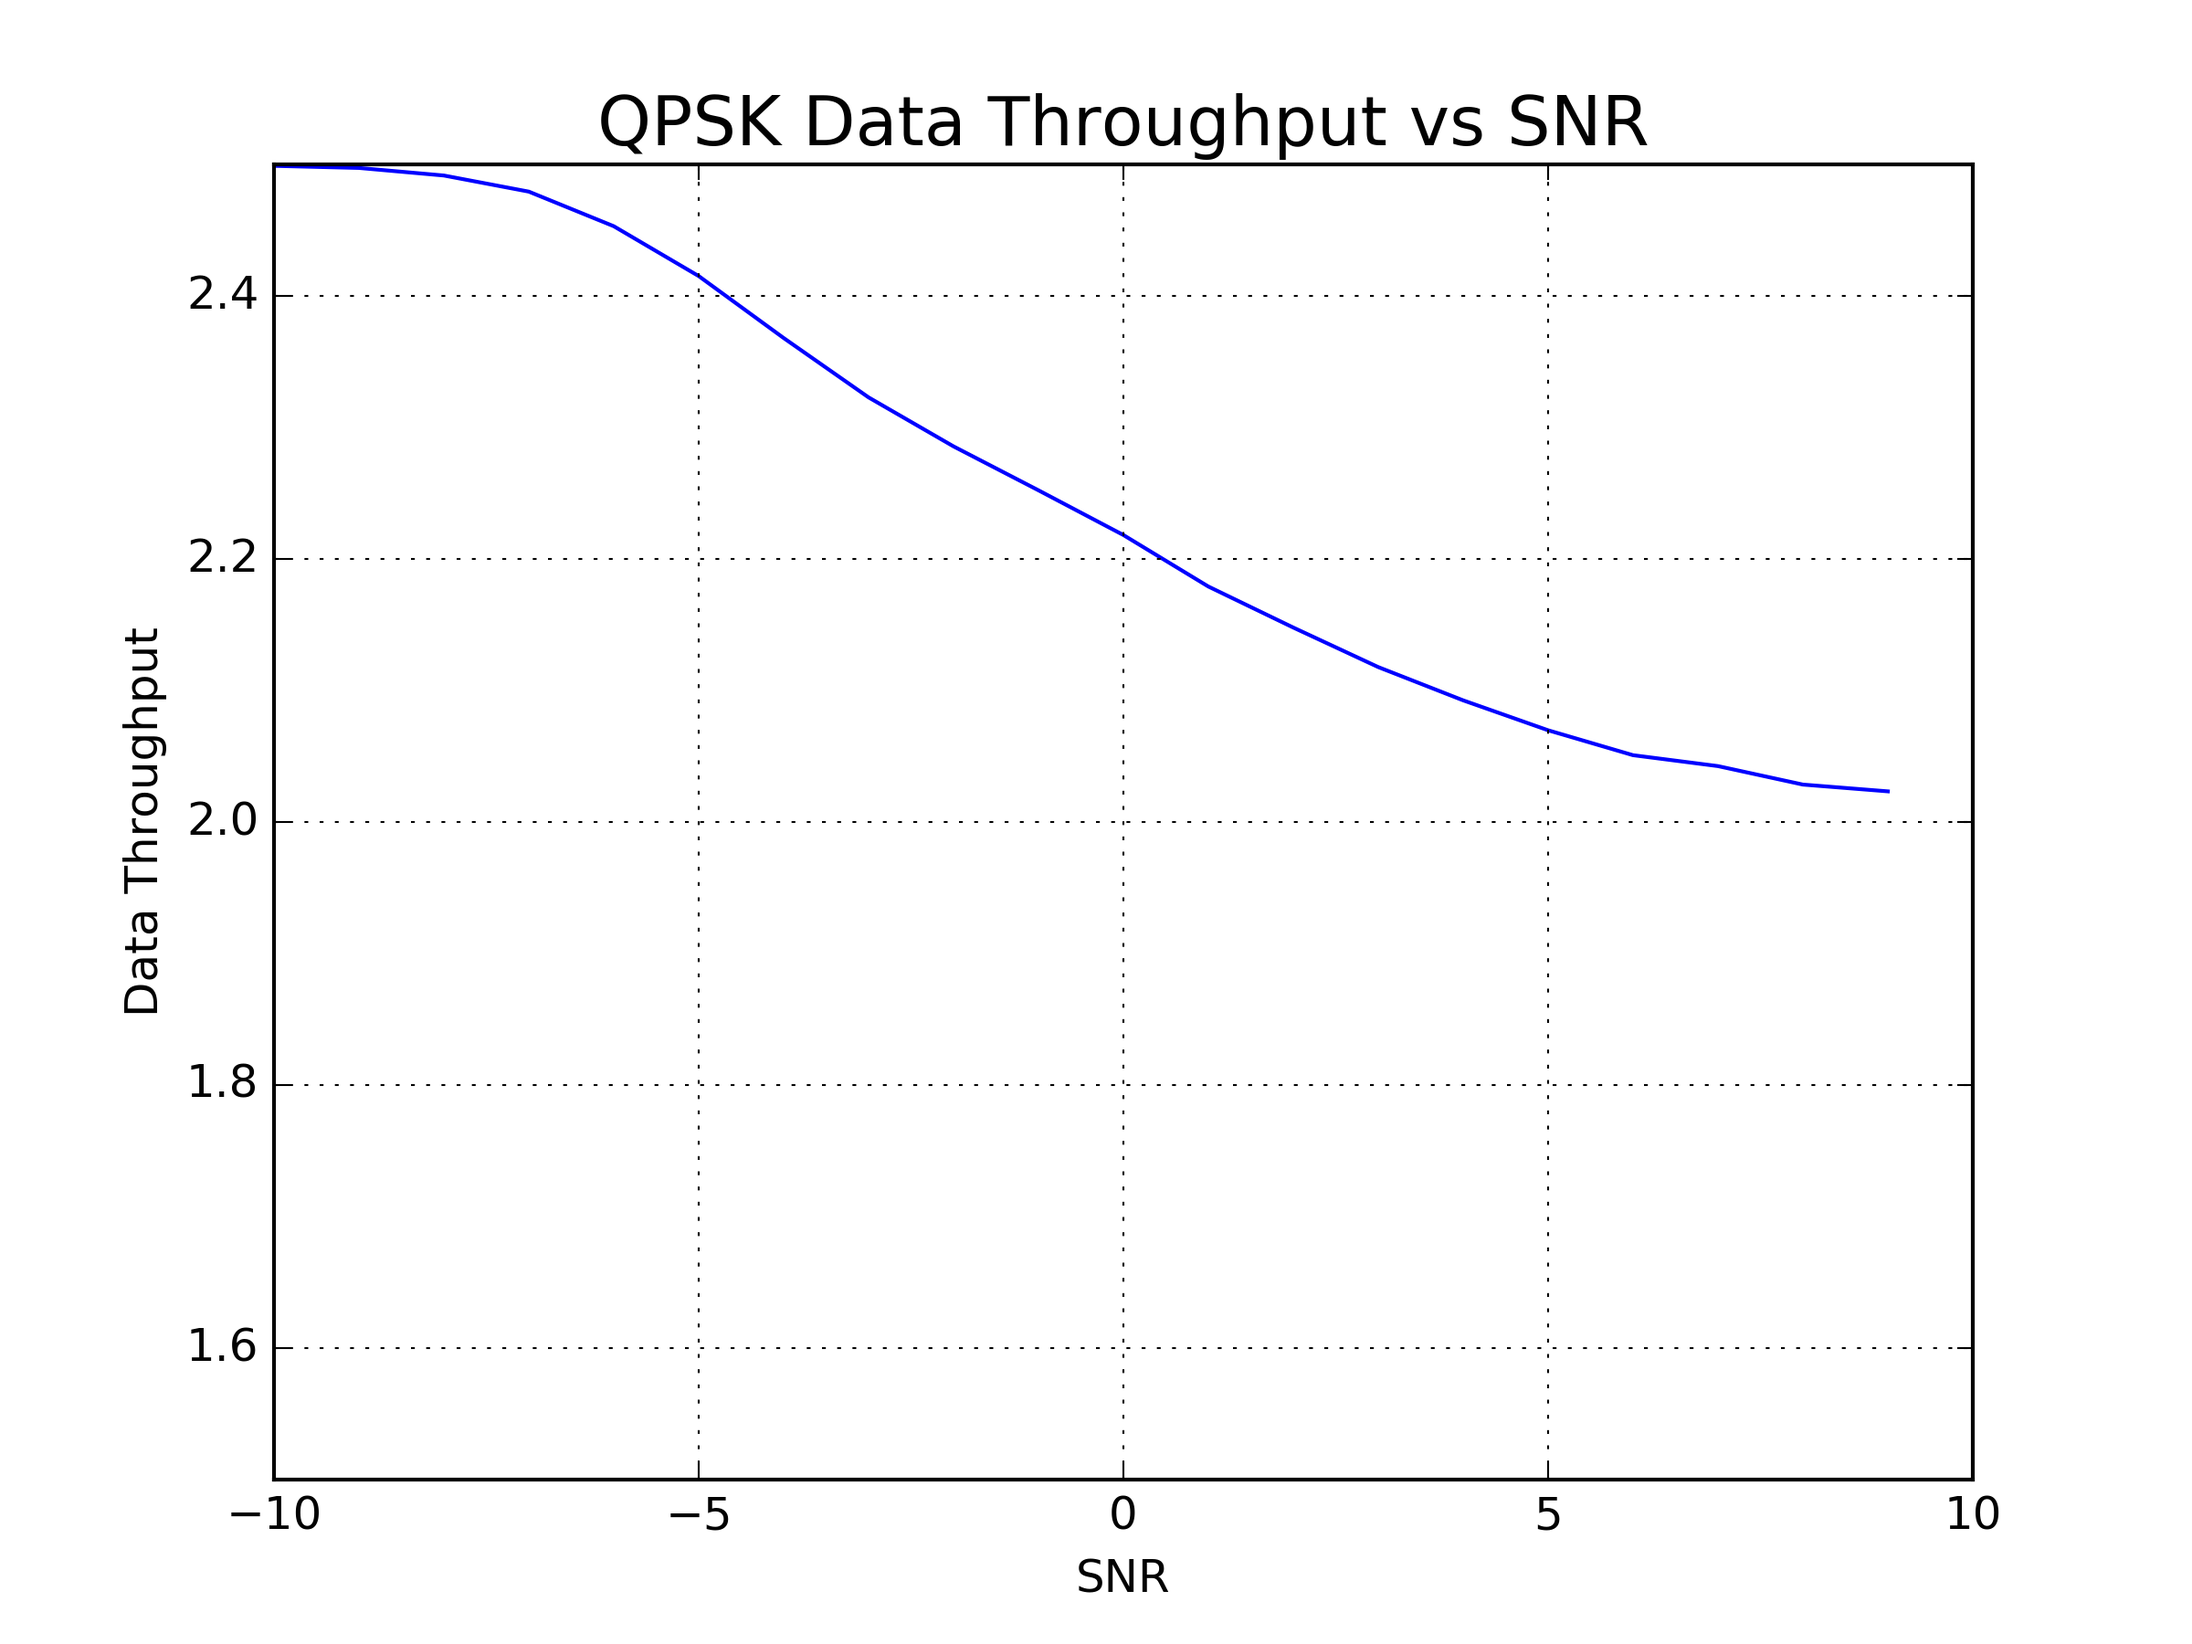
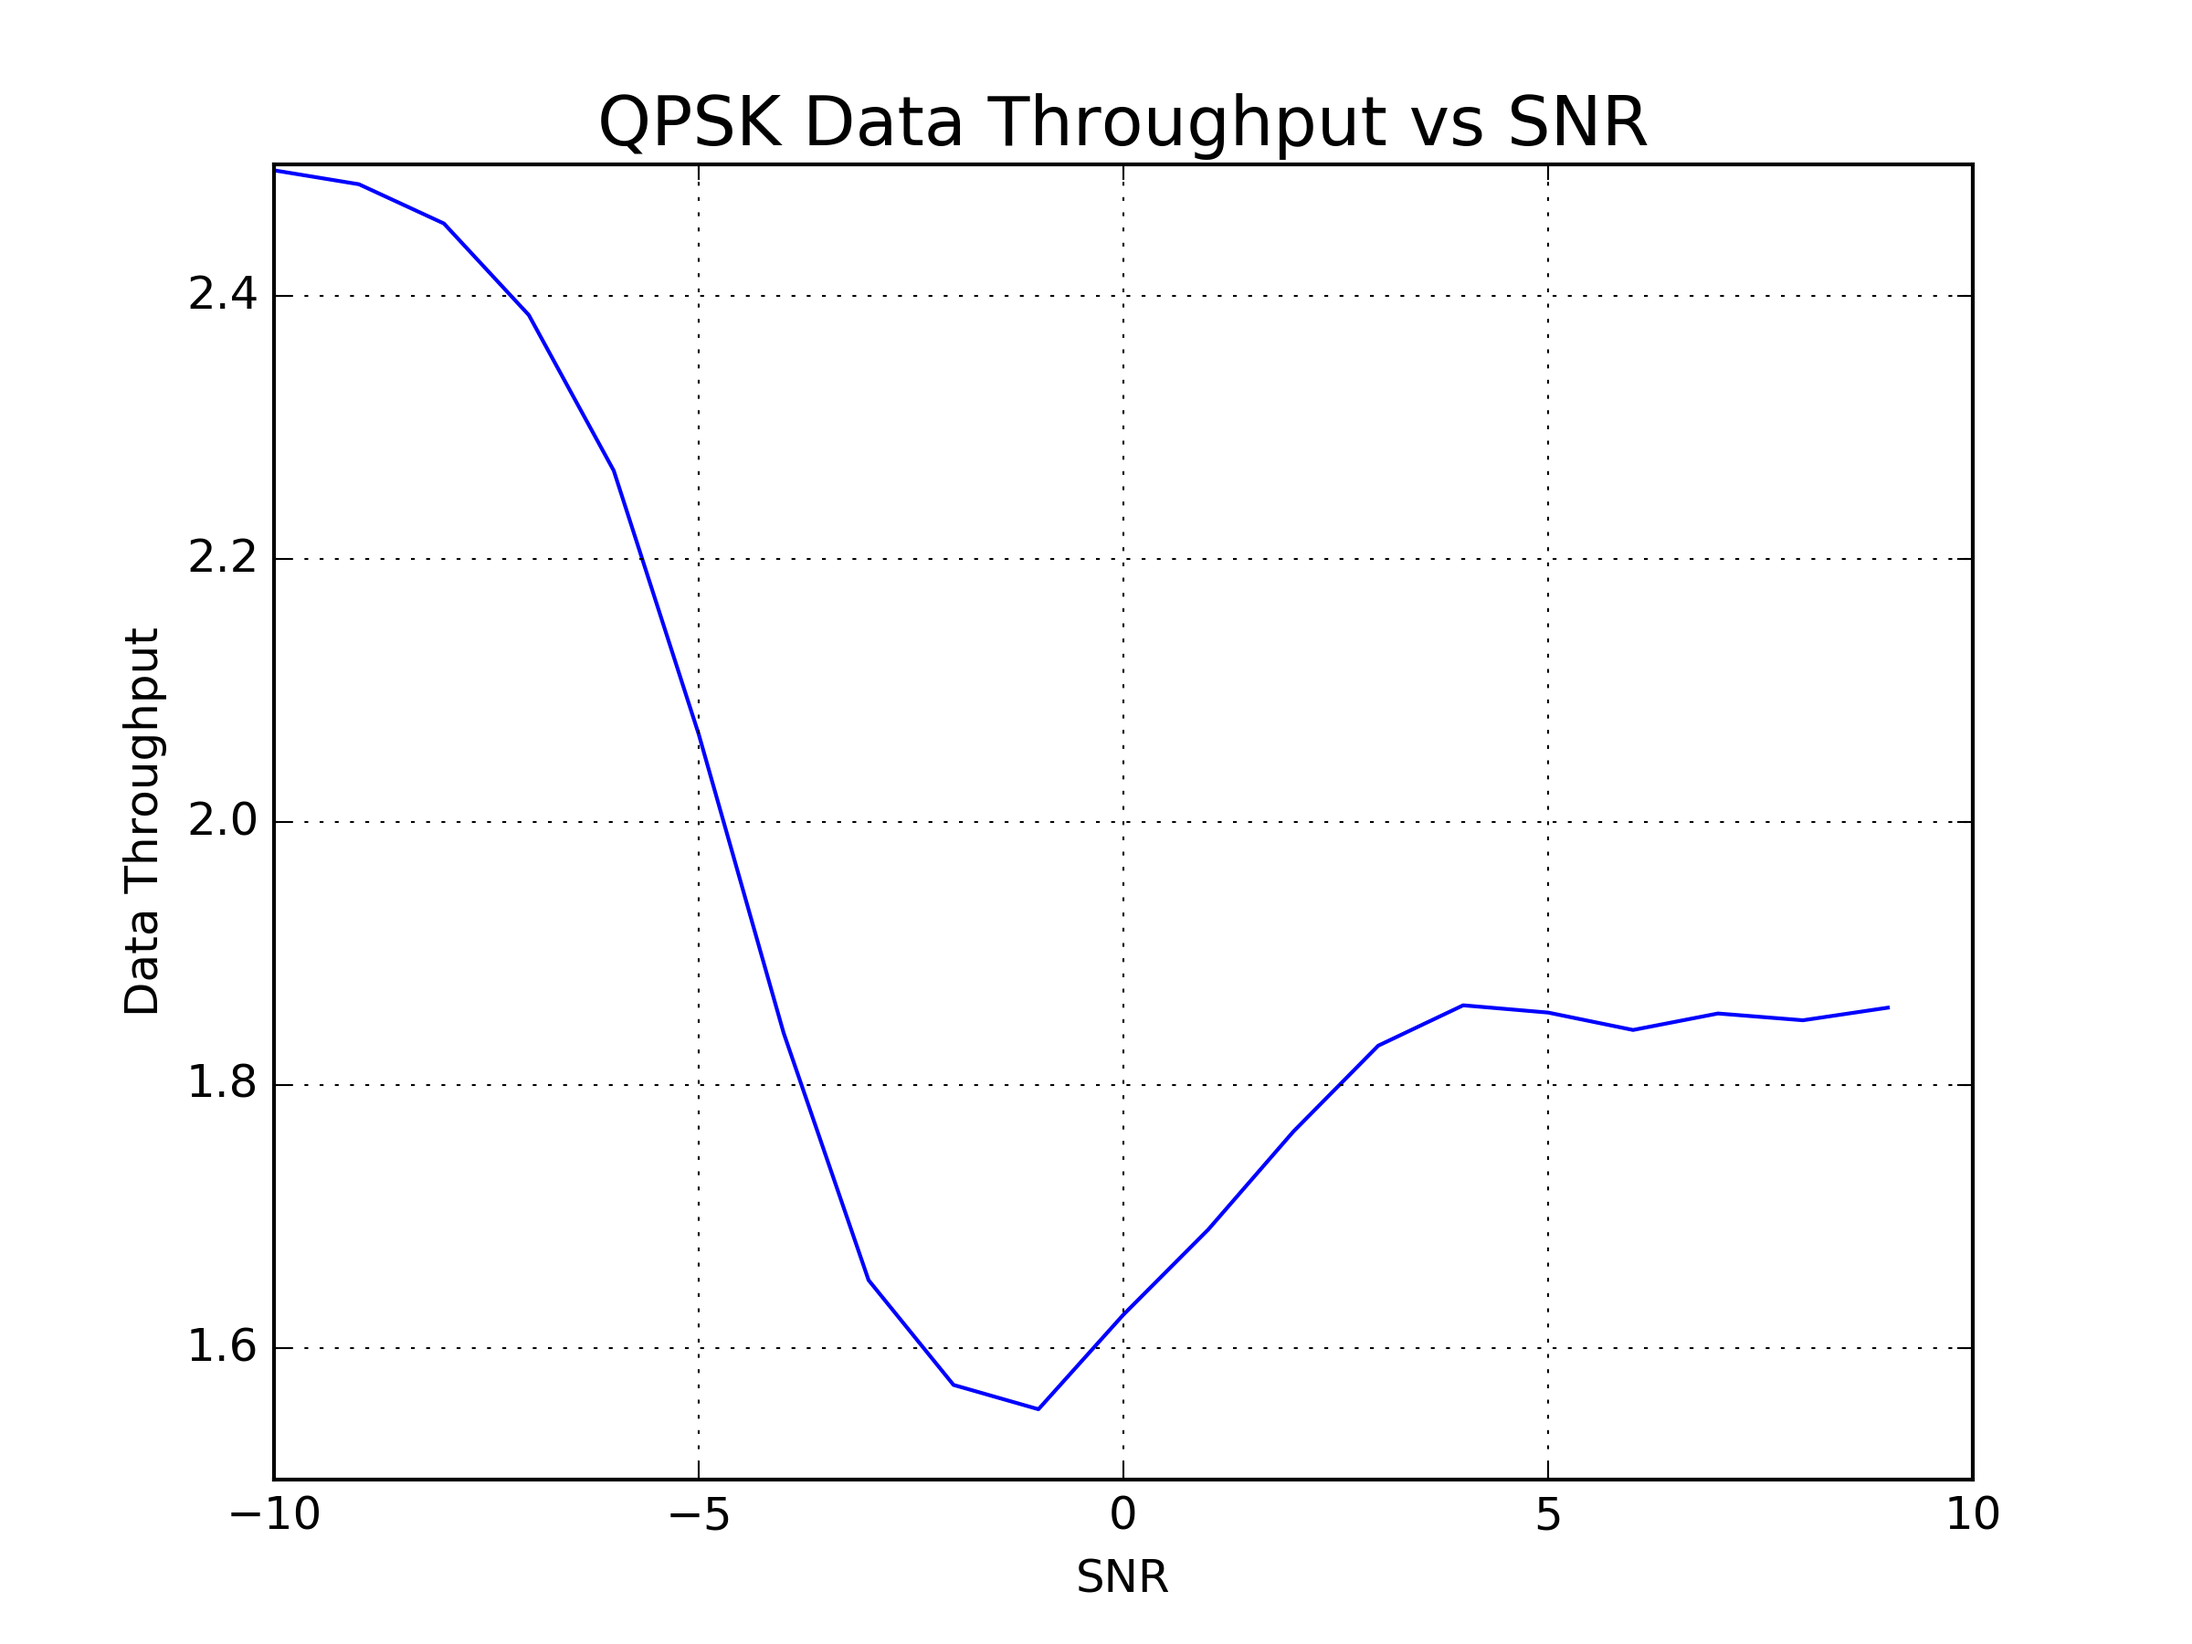
Fixed data throughput calculation and regenerated graphs

diff --git a/examples/eve_plot_sim.py b/examples/eve_plot_sim.py
@@ -5,7 +5,6 @@ import time
 import csv
 
 class Plot_Datarate_vs_SNR:
-	#snr_range = []
 
 	def __init__(self):
 		#list of range values, should be same as the sim
@@ -31,7 +30,8 @@ class Plot_Datarate_vs_SNR:
 		for row in csv_reader:
 			self.csv_data.append(row)
 
-		print self.csv_data
+		#debug
+		#print self.csv_data
 
 	def calculate_data_throughput(self):
 		#using loaded data to create list of datathroughput values at each SNR and modulation
@@ -39,38 +39,21 @@ class Plot_Datarate_vs_SNR:
 
 		for snr_row in range(1,len(self.csv_data),1):
 
-			BPSK_data_throughput = 2.5 - float(self.csv_data[snr_row][0*4 + 1]) * 1 * 0.25
-			QPSK_data_throughput = 2.5 - float(self.csv_data[snr_row][1*4 + 2]) * 2 * 0.25
-			eightPSK_data_throughput = 2.5 - float(self.csv_data[snr_row][2*4 + 3]) * 3 * 0.25
-			sixteenQAM_data_throughput = 2.5 - float(self.csv_data[snr_row][3*4 + 4]) * 4 * 0.25
-
-
-			#calculated data blocked or something
-			"""
-			#needs to be converted to two nested for loops
-			BPSK_data_throughput = 0.25*(float(self.csv_data[snr_row][1])*1 + float(self.csv_data[snr_row][2])*2 + float(self.csv_data[snr_row][3])*3 + float(self.csv_data[snr_row][4])*4)
-			QPSK_data_throughput = 0.25*(float(self.csv_data[snr_row][5])*1 + float(self.csv_data[snr_row][6])*2 + float(self.csv_data[snr_row][7])*3 + float(self.csv_data[snr_row][8])*4)
-			eightPSK_data_throughput = 0.25*(float(self.csv_data[snr_row][9])*1 + float(self.csv_data[snr_row][10])*2 + float(self.csv_data[snr_row][11])*3 + float(self.csv_data[snr_row][12])*4)
-			sixteenQAM_data_throughput = 0.25*(float(self.csv_data[snr_row][13])*1 + float(self.csv_data[snr_row][14])*2 + float(self.csv_data[snr_row][15])*3 + float(self.csv_data[snr_row][16])*4)
-			"""
+			#subtract from the max possible data throughput the percent classified of each target classification and the true data value of the symbol that would've been jammed
+			BPSK_data_throughput = 2.5 - 0.25*(float(self.csv_data[snr_row][0*4+ 1])*1 + float(self.csv_data[snr_row][1*4+ 1])*2 + float(self.csv_data[snr_row][2*4+ 1])*3 + float(self.csv_data[snr_row][3*4+ 1])*4)
+			QPSK_data_throughput = 2.5 - 0.25*(float(self.csv_data[snr_row][0*4+ 2])*1 + float(self.csv_data[snr_row][1*4+ 2])*2 + float(self.csv_data[snr_row][2*4+ 2])*3 + float(self.csv_data[snr_row][3*4+ 2])*4)
+			eightPSK_data_throughput = 2.5 - 0.25*(float(self.csv_data[snr_row][0*4+ 3])*1 + float(self.csv_data[snr_row][1*4+ 3])*2 + float(self.csv_data[snr_row][2*4+ 3])*3 + float(self.csv_data[snr_row][3*4+ 3])*4)
+			sixteenQAM_data_throughput = 2.5 - 0.25*(float(self.csv_data[snr_row][0*4+ 4])*1 + float(self.csv_data[snr_row][1*4+ 4])*2 + float(self.csv_data[snr_row][2*4+ 4])*3 + float(self.csv_data[snr_row][3*4+ 4])*4)
 
 			self.data_throughput.append([float(self.csv_data[snr_row][0]), BPSK_data_throughput, QPSK_data_throughput, eightPSK_data_throughput, sixteenQAM_data_throughput])
 
-		print self.data_throughput
+		#debug
+		#print self.data_throughput
 
 
 	def plot_data(self):
 		#plot loaded sim data from csv
 		print "plotting data"
-
-		#test plotting
-		"""
-		plt.plot([1,2,3,4], [1,4,9,16])
-		plt.xlabel('some sheeet')
-		plt.ylabel('some other sheeet')
-		plt.show()
-		"""
-
 
 		for mod_graph in range(1,5,1):
 			x_vals = []

diff --git a/examples/eve_sim.py b/examples/eve_sim.py
@@ -7,7 +7,7 @@
 # Generated: Sun Oct 29 09:50:29 2017
 #
 # Script to run simulation trials of eve_sim_flowgraph
-# current script in gr-eve_mod/examples
+# Current script in gr-eve_mod/examples
 ##################################################
 
 
@@ -44,9 +44,6 @@ class eve_sim(gr.top_block):
 
     def __init__(self, snr_db_ae = 15, signal_len = 1024, samp_rate = 100000, samples = 1000, const_index = 3):
         gr.top_block.__init__(self, "Eve Sim")
-
-
-
 
         ##################################################
         # Variables
@@ -187,14 +184,12 @@ def run_sims(top_block_cls=eve_sim, options=None):
     #dictionary of modulations and indexes
     mod  = {'BPSK':0, 'QPSK':1, '8PSK':2, '16QAM':3}
 
-    #paramters when running a sim, could be organized into a class for a sim
+    #parameters when running a sim, could be organized into a class for a sim
     snr_db_ae = 10;
     signal_len = 1024;
     samp_rate = 100000;
     samples_to_check = 100;
     samples = 10000;
-
-    #how to run for only a couple seconds or get only a limited number of samples?
 
 
     all_snr_results = []
@@ -224,8 +219,6 @@ def run_sims(top_block_cls=eve_sim, options=None):
 	        sims[mod_index].start()
 	        sims[mod_index].wait()
 	        sims[mod_index].stop()
-	        #print mod_index
-	        #print 'Number of messages received:',sims[mod_index].blocks_message_debug_0.num_messages()
 	        
 	        #tally recieved symbols and how they were classified
 	        for curr_samp in range(samples):
@@ -252,13 +245,8 @@ def run_sims(top_block_cls=eve_sim, options=None):
 
 
 	    #write results to a file as a csv
-	    #output_file = open("confusion_matrix.csv", 'w')
-	    
 	    write_csv(sim_results, output_file)
 	    write_csv(sim_results_percent, output_file)
-	    
-	    #output_file.close()
-
 
 	    print '\n'
 
@@ -268,8 +256,8 @@ def run_sims(top_block_cls=eve_sim, options=None):
     output_file_forplot.close()
 
     #debug output
-    for i in range (20):
-    	print all_snr_results_percent[i][0][0],'\t',all_snr_results_percent[i][1][1],'\t',all_snr_results_percent[i][2][2],'\t',all_snr_results_percent[i][3][3]
+    #for i in range (20):
+    #	print all_snr_results_percent[i][0][0],'\t',all_snr_results_percent[i][1][1],'\t',all_snr_results_percent[i][2][2],'\t',all_snr_results_percent[i][3][3]
 
 
 
@@ -289,6 +277,7 @@ def write_csv(sim_results, output_file):
     output_file.write('\n')
 
 
+#combines smaller matrices for each snr sim into one large matrix and saves it as a csv
 def write_csv_forplot(all_sim_results, snr_db_ae_range, num_samples, output_file):
     
     csv_column_labels = [
@@ -305,7 +294,7 @@ def write_csv_forplot(all_sim_results, snr_db_ae_range, num_samples, output_file
 
 
     for curr_snr in range(len(all_sim_results)):
-    	#initialize row to be empty
+    	
     	curr_row = [snr_db_ae_range[curr_snr]]
 
     	for mod_sim in range(len(all_sim_results[curr_snr])):
